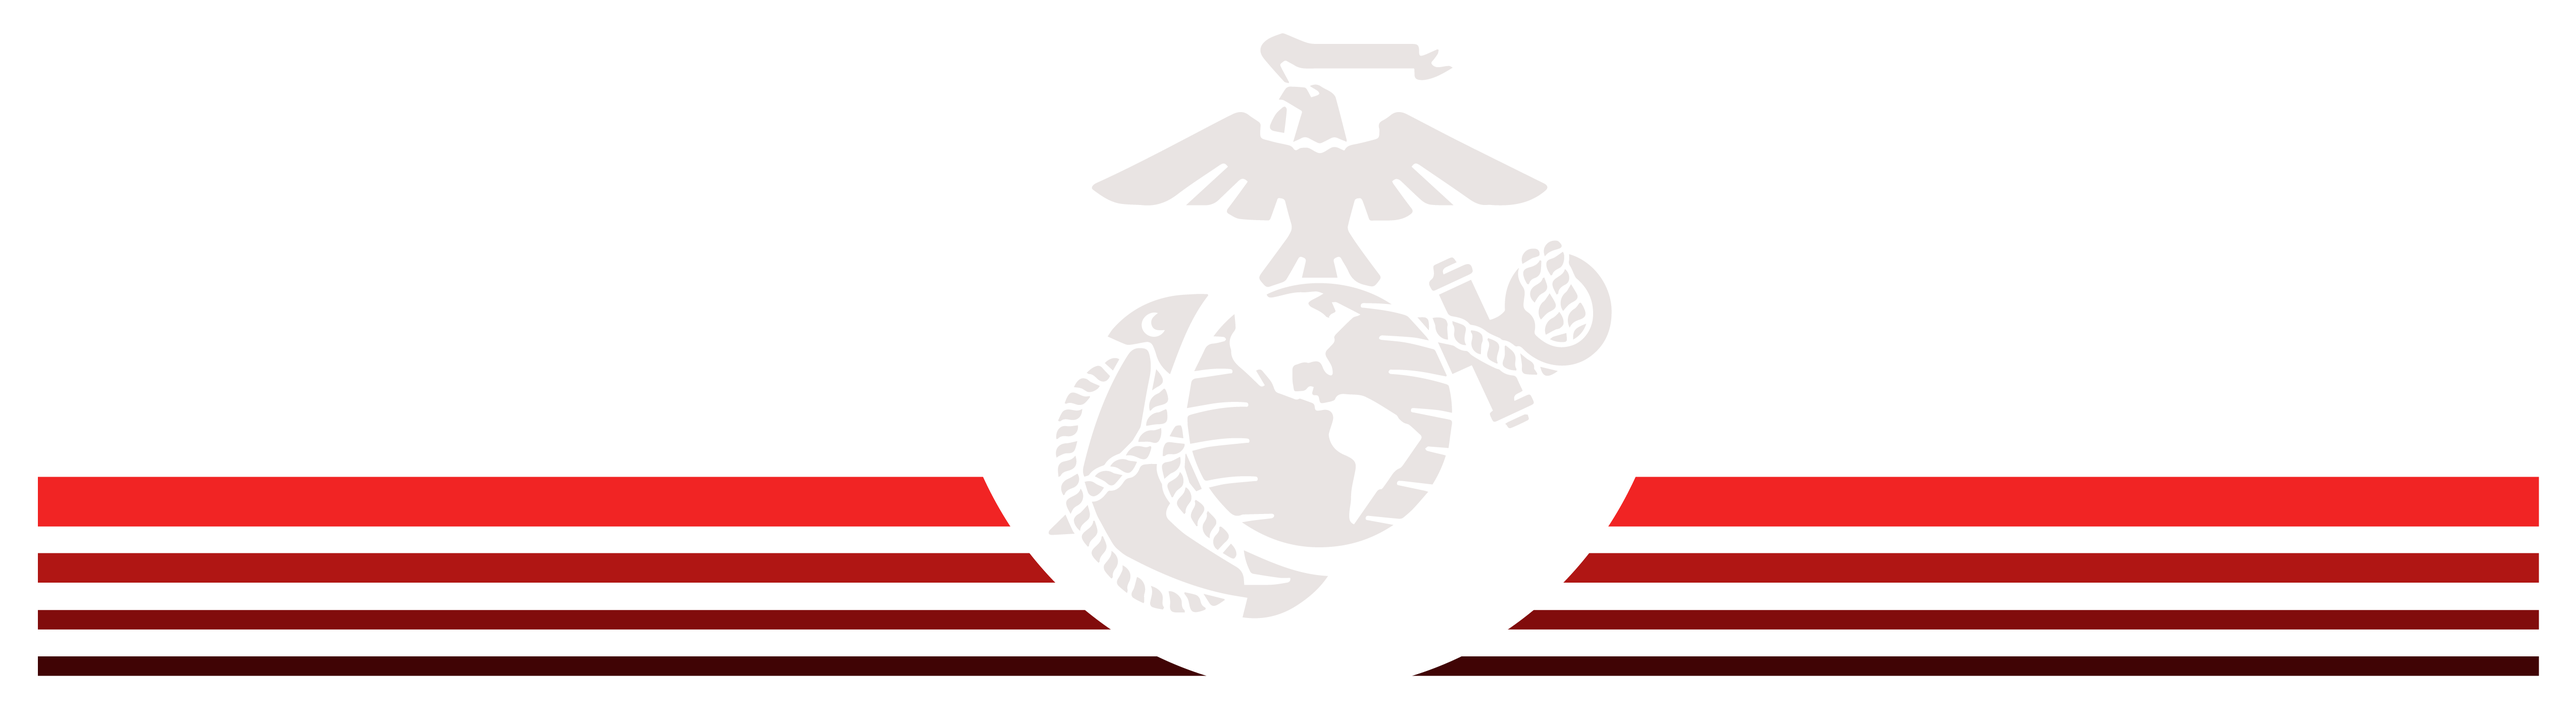
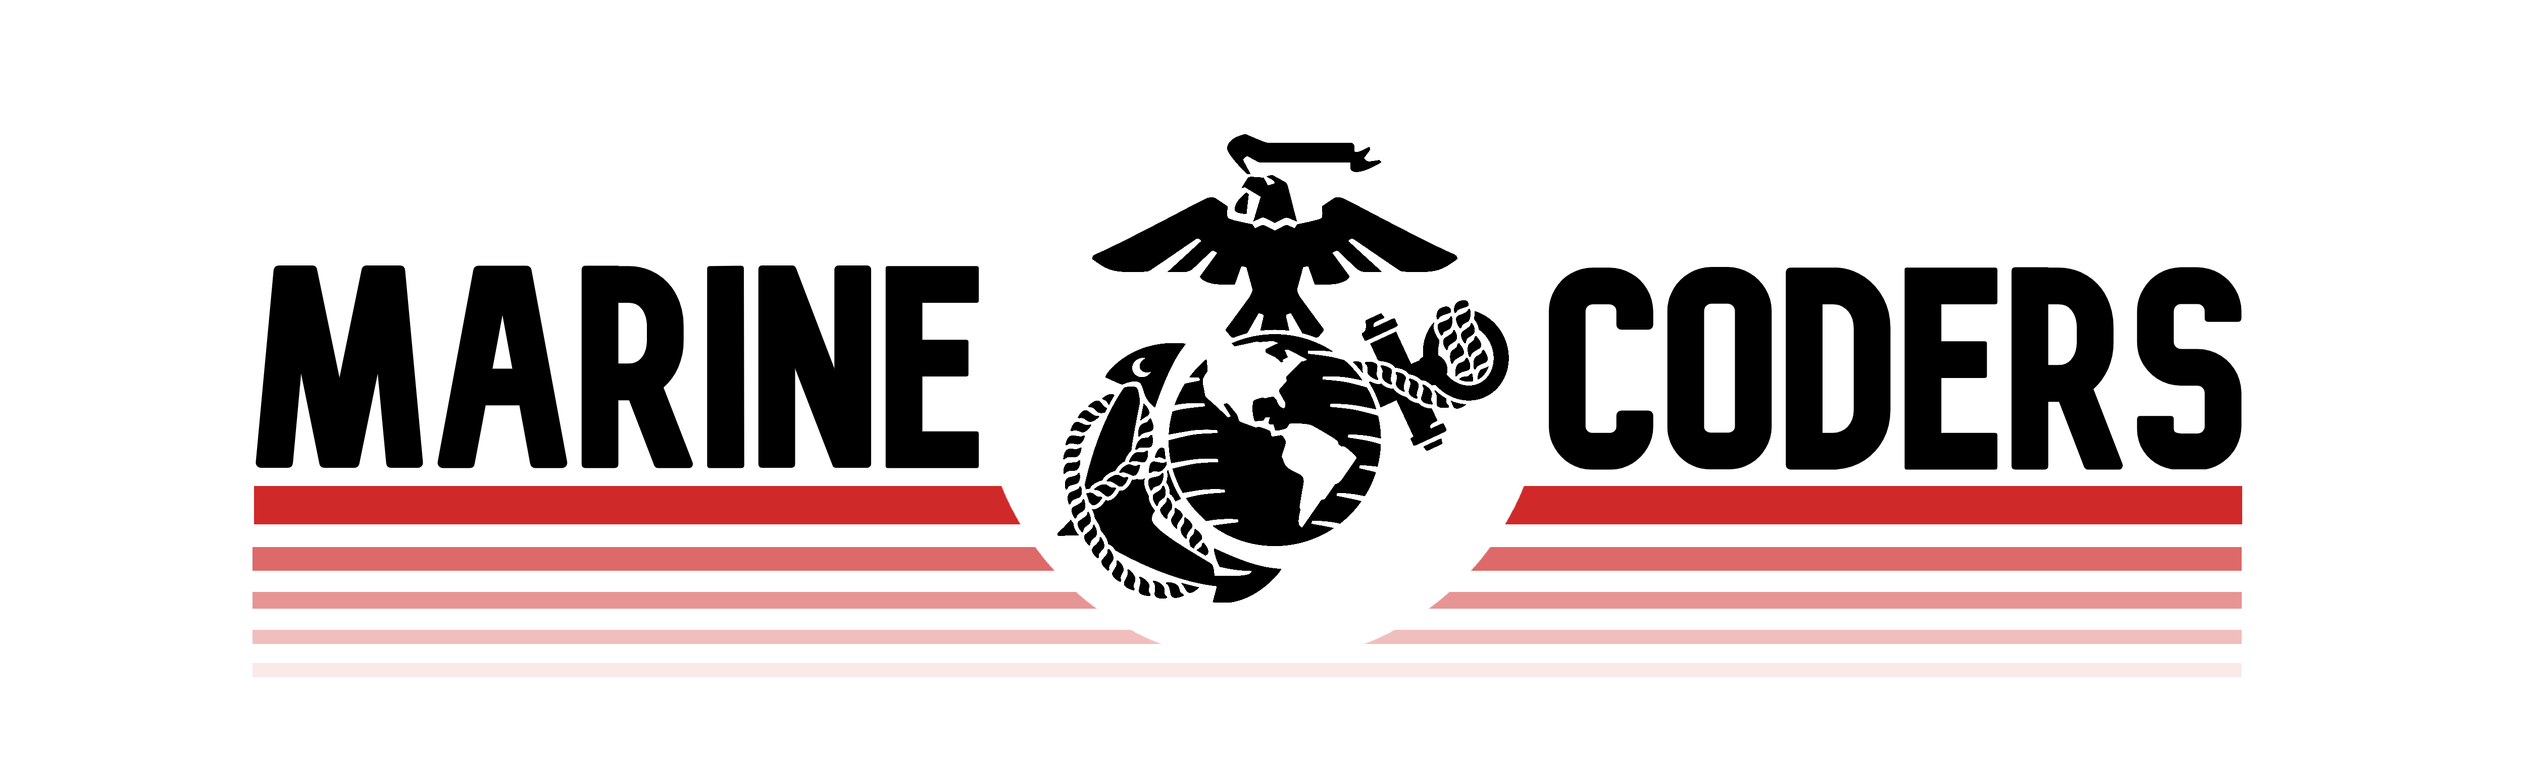
added marine coders

diff --git a/index.html b/index.html
@@ -9,5 +9,9 @@
 <a href="https://spacecoders.us">
     <img src="/assets/images/SpaceCoders_Logo.png" width="250px"/>
     </a>
+
+    <a href="https://marinecoders.us">
+        <img src="/assets/images/MarineCoders.png" width="250px"/>
+        </a>
     
 </center>
